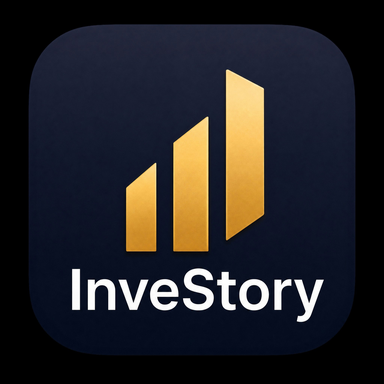
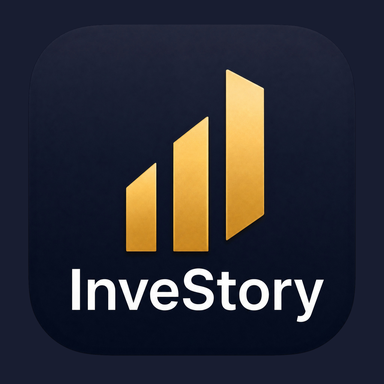
v0.0.94: убрать чёрную рамку у иконки приложения
Исходник (InveStory icon.png, 2048×2048) сделан как заготовка для
Android adaptive icon — скруглённый квадрат с прозрачными полями по
краям, систему саму вырезает форму. Иконки, которыми пользуется сайт
(icons/icon-*.png) и Android-лаунчер (mipmap/ic_launcher*.png), были
собраны из этой заготовки заливкой прозрачности в чёрный цвет вместо
тёмно-синего фона бренда — отсюда чёрная рамка на домашнем экране,
которую заметил Александр на iPhone.

Пересобраны все размеры (72–512 для сайта, 48–192×2 для пяти плотностей
Android) с заливкой в #181D31 — фактический цвет фона исходника,
подобран по образцу с самой картинки, шов после заливки незаметен
(проверено сканом пикселей через границу формы).

ic_launcher_round.png отдельно обрезан по кругу: без файла адаптивной
иконки (mipmap-anydpi-v26/ic_launcher.xml, которого в проекте нет)
система не режет форму сама, и без этой правки те же чёрные (теперь
синие) углы вылезли бы и там, просто ещё не были замечены — Android
пока не переустанавливали после текущей правки.

Changed region(s): [[0.0, 0.0, 1.0, 1.0]]

diff --git a/index.html b/index.html
@@ -2892,7 +2892,7 @@ body.modern-mockup.theme-light .total-currency{
 
 
 // ── SUBSCRIPTION ACCESS STATE ─────────────────────────────
-const APP_VERSION = 'v0.0.93';
+const APP_VERSION = 'v0.0.94';
 const APP_BUILD_DATE = '2026-07-01';
 const STORAGE_SCHEMA_VERSION = 7;
 const STORAGE_KEY = 'kapital_v6';

diff --git a/sw.js b/sw.js
@@ -1,4 +1,4 @@
-const CACHE_NAME = 'investory-app-v0-0-93-manrope-font';
+const CACHE_NAME = 'investory-app-v0-0-94-fix-icon-bg';
 const APP_SHELL = [
   './',
   './index.html',
